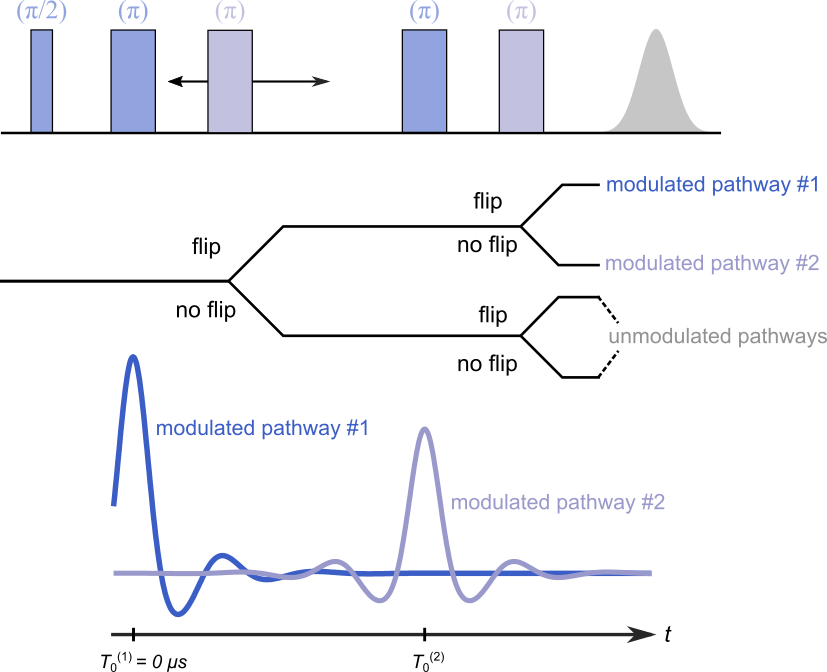
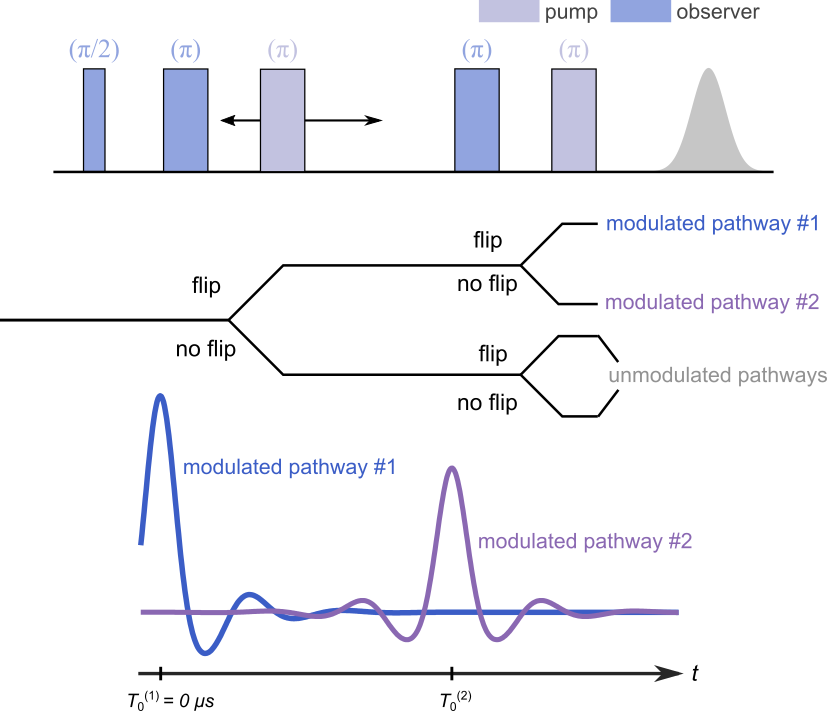
added new experimental model pages, multiple CSS formattings

Changed region(s): [[0.0, 0.0, 1.0, 0.5938], [0.1209, 0.5312, 0.8464, 1.0]]

diff --git a/docsrc/source/_static/theme_override.css b/docsrc/source/_static/theme_override.css
@@ -2932,7 +2932,7 @@ display: block}
     cursor: pointer;
     padding-top: inherit}
 .wy-nav-content-wrap {
-    margin-left: 300px;
+    margin-left: 250px;
     background: #fcfcfc;
     min-height: 100%}
 .wy-nav-content {
@@ -3330,7 +3330,7 @@ footer span.commit code,footer span.commit .rst-content tt,.rst-content footer s
 .rst-content tt,.rst-content tt,.rst-content code {
     color: #000;
     font-family: SFMono-Regular,Menlo,Monaco,Consolas,"Liberation Mono","Courier New",Courier,monospace;
-    padding: 2px 5px}
+    padding: 0px 1px}
 .rst-content tt big,.rst-content tt em,.rst-content tt big,.rst-content code big,.rst-content tt em,.rst-content code em {
     font-size: 100% !important;
     line-height: normal}

diff --git a/docsrc/source/_static/custom.css b/docsrc/source/_static/custom.css
@@ -107,6 +107,10 @@ a.visited{
 color:#000;
 }
 
+/*For links containing code*/
+.coderef a{
+    font-family: monospace
+}
 
 ul.metro li.nocolor_class a.tile { background-color: #FFFFFF; border-radius: 50%; width: 110px; height: 110px;}
 

diff --git a/docsrc/source/conf.py b/docsrc/source/conf.py
@@ -13,7 +13,7 @@ from sphinx_rtd_theme import __version__
 
 # Project details
 project = 'DeerLab'
-copyright = '2019-2020, Luis Fabregás Ibáñez, Stefan Stoll, and others'
+copyright = '2019-2020, Luis Fábregas Ibáñez, Stefan Stoll, and others'
 author = 'Fabregas Ibanez'
 language = 'en'
 

diff --git a/docsrc/source/models/exp_ovl4pdeer.rst b/docsrc/source/models/exp_ovl4pdeer.rst
@@ -1,12 +1,12 @@
 .. highlight:: matlab
-.. _exp_5pdeer:
+.. _exp_ovl4pdeer:
 
 
 ***********************
-:mod:`exp_5pdeer`
+:mod:`exp_ovl4pdeer`
 ***********************
 
-5-pulse DEER experiment 
+4-pulse DEER experiment with overlaping observer pulse
 
 -----------------------------
 
@@ -16,9 +16,9 @@ Syntax
 
 .. code-block:: matlab
 
-        info = exp_5pdeer(t)
-        K = exp_5pdeer(t,r,param,Bmodel)
-        [K,B] = exp_5pdeer(t,r,param,Bmodel)
+        info = exp_ovl4pdeer(t)
+        K = exp_ovl4pdeer(t,r,param,Bmodel)
+        [K,B] = exp_ovl4pdeer(t,r,param,Bmodel)
 
 Parameters
     *   ``t`` - Time axis (*M*-array)
@@ -36,7 +36,7 @@ Returns
 Model
 =========================================
 
-.. image:: ../images/model_scheme_exp_5pdeer.png
+.. image:: ../images/model_scheme_exp_ovl4pdeer.png
    :width: 550px
 
 
@@ -50,16 +50,16 @@ where :math:`T_0^{(1)}=0` and :math:`T_0^{(2)}` are the refocusing times of the 
 ============== ======================== ================= ==================== ==================== ============================================
  Variable        Symbol                   Default          Lower                Upper                Description
 ============== ======================== ================= ==================== ==================== ============================================
-``param(1)``   :math:`\Lambda_0`        0.4                0                    1                     unmodulated pathways, amplitude
-``param(2)``   :math:`\lambda_1`        0.4                0                    1                     1st modulated pathway, amplitude
-``param(3)``   :math:`\lambda_2`        0.2                0                    1                     2nd modulated pathway, amplitude
-``param(4)``   :math:`T_0^{(2)}`        :math:`\max(t)/2`  :math:`\max(t)/2-2`  :math:`\max(t)/2+2`    2nd modulated pathway, refocusing time
+``param(1)``   :math:`\Lambda_0`        0.1                0                    1                     unmodulated pathways, amplitude
+``param(2)``   :math:`\lambda_1`        0.8                0                    1                     1st modulated pathway, amplitud e
+``param(3)``   :math:`\lambda_2`        0.1                0                    1                     2nd modulated pathway, amplitude
+``param(4)``   :math:`T_0^{(2)}`        :math:`\max(t)`   :math:`\max(t)-2`    :math:`\max(t)+2`      2nd modulated pathway, refocusing time
 ============== ======================== ================= ==================== ==================== ============================================
 
 
 Example of a simulated signal using default parameters:
 
-.. image:: ../images/model_exp_5pdeer.png
+.. image:: ../images/model_exp_ovl4pdeer.png
    :width: 550px
 
 -----------------------------
@@ -70,7 +70,7 @@ Description
 
 .. code-block:: matlab
 
-        info = exp_5pdeer(t)
+        info = exp_ovl4pdeer(t)
 
 Returns an ``info`` structure containing the specifics of the model:
 
@@ -83,7 +83,7 @@ Returns an ``info`` structure containing the specifics of the model:
 
 .. code-block:: matlab
 
-    [K,B] = exp_5pdeer(t,r,param,Bmodel)
+    [K,B] = exp_ovl4pdeer(t,r,param,Bmodel)
 
 Computes the distance distribution model ``P`` from the time axis ``t`` and distance axis ``r`` according to the parameters array ``param``.  The required parameters can also be found in the ``info`` structure. 
 
@@ -92,6 +92,6 @@ The full background ``B`` is also computed from the basic background model ``Bmo
 .. code-block:: matlab
 
     Bmodel = @(t) bg_exp(t,k);
-    [K,B] = exp_5pdeer(t,r,param,Bmodel)
+    [K,B] = exp_ovl4pdeer(t,r,param,Bmodel)
 
 

diff --git a/docsrc/source/models/exp_4pdeer.rst b/docsrc/source/models/exp_4pdeer.rst
@@ -1,0 +1,94 @@
+.. highlight:: matlab
+.. _exp_4pdeer:
+
+
+***********************
+:mod:`exp_4pdeer`
+***********************
+
+4-pulse DEER experiment 
+
+-----------------------------
+
+
+Syntax
+=========================================
+
+.. code-block:: matlab
+
+        info = exp_4pdeer(t)
+        K = exp_4pdeer(t,r,param,Bmodel)
+        [K,B] = exp_4pdeer(t,r,param,Bmodel)
+
+Parameters
+    *   ``t`` - Time axis (*M*-array)
+    *   ``r`` - Distance axis (*N*-array)
+    *   ``param`` - Model parameters (array)
+    *   ``Bmodel`` - Background model (function handle)
+Returns
+    *   ``K`` - Dipolar kernel (*MxN*-array)
+    *   ``B`` - Experiment background (*M*-array)
+    *   ``info`` - Model information (struct)
+
+
+-----------------------------
+
+Model
+=========================================
+
+.. image:: ../images/model_scheme_exp_4pdeer.png
+   :width: 550px
+
+
+:math:`V(t) = [1-\lambda + \lambda D(t-T_0^{(1)})]B(t-T_0^{(1)}) = [1-\lambda + \lambda D(t)]B(t)`
+
+:math:`K(t,r) = [1-\lambda + \lambda K(t-T_0^{(1)},r)]B(t-T_0^{(1)}) = [1-\lambda + \lambda K(t,r)]B(t)`
+
+where :math:`T_0^{(1)}=0` is the refocusing time of the modulated dipolar pathway.
+
+
+============== ================ ============ ============ ============ ================================================
+ Variable        Symbol           Default       Lower        Upper                Description
+============== ================ ============ ============ ============ ================================================
+``param(1)``   :math:`\lambda`     0.3           0            1          Modulated pathway amplitude (modulation depth)
+============== ================ ============ ============ ============ ================================================
+
+
+Example of a simulated signal using default parameters:
+
+.. image:: ../images/model_exp_4pdeer.png
+   :width: 550px
+
+-----------------------------
+
+
+Description
+=========================================
+
+.. code-block:: matlab
+
+        info = exp_4pdeer(t)
+
+Returns an ``info`` structure containing the specifics of the model:
+
+* ``info.model`` -  Full name of the parametric model.
+* ``info.nparam`` -  Total number of adjustable parameters.
+* ``info.parameters`` - Structure array with information on individual parameters.
+
+-----------------------------
+
+
+.. code-block:: matlab
+
+    [K,B] = exp_4pdeer(t,r,param,Bmodel)
+
+Computes the distance distribution model ``P`` from the time axis ``t`` and distance axis ``r`` according to the parameters array ``param``.  The required parameters can also be found in the ``info`` structure. 
+
+The full background ``B`` is also computed from the basic background model ``Bmodel``, which has to be passed as a function of the time-axis ``t``. For example: 
+
+.. code-block:: matlab
+
+    Bmodel = @(t) bg_exp(t,k);
+    [K,B] = exp_4pdeer(t,r,param,Bmodel)
+
+

diff --git a/docsrc/source/ddmodels.rst b/docsrc/source/ddmodels.rst
@@ -6,12 +6,16 @@ In DeerLab, distance distributions can be represented either as parameter-free m
 Parameter-free distance distributions
 ------------------------------------------------
 
+.. rst-class:: coderef
+
 A parameter-free distance distribution is a vector of population densities ``P`` defined over a vector of distances ``r``. Outside the range of ``r``, the distance distribution is considered zero, i.e. it is truncated to the range of ``r``. Such parameter-free distance distributions are returned by the fit functions :ref:`fitregmodel` and :ref:`obir`. A ``P`` can be converted to a time-domain signal using :ref:`dipolarsignal` or :ref:`dipolarkernel`.
 
 Parameter-free distance distributions are preferred over parametric distance distributions, since they make fewer assumptions about the distribution and are more flexible. They introduce less bias.
 
 Parametric distance distributions
 ------------------------------------------------
+
+.. rst-class:: coderef
 
 DeerLab provide a series of parametric distance distributions models. These can be used with several functions, including :ref:`fitparamodel` and :ref:`selectmodel`. All parametric distance distribution models are functions start with the prefix ``dd_``. They take a distance vector ``r`` and a parameter vector ``param`` as inputs and return the distance distribution as a vector ``P``. Here is an example:
 

diff --git a/docsrc/source/expmodels.rst b/docsrc/source/expmodels.rst
@@ -3,23 +3,19 @@ Experiment models
 
 In DeerLab, experiments can be represented as parametric models.
 
-
-Parametric dipolar experiment models
-------------------------------------------------
-
-There are several classes of experiment models:
-
 .. rst-class:: func-list
 
-=================== ======================
-Model function          Description
-=================== ======================
-:ref:`exp_5pdeer`    5-pulse DEER
-=================== ======================
+======================= ===============================================================
+Model function           Description
+======================= ===============================================================
+:ref:`exp_4pdeer`         4-pulse DEER experiment
+:ref:`exp_ovl4pdeer`      4-pulse DEER with overlaping observer pulse
+:ref:`exp_5pdeer`         5-pulse DEER experiment
+======================= ===============================================================
 
 
 .. toctree::
-    :maxdepth: 0
+    :maxdepth: 1
     :hidden:
     :glob:
     :caption: Background models
